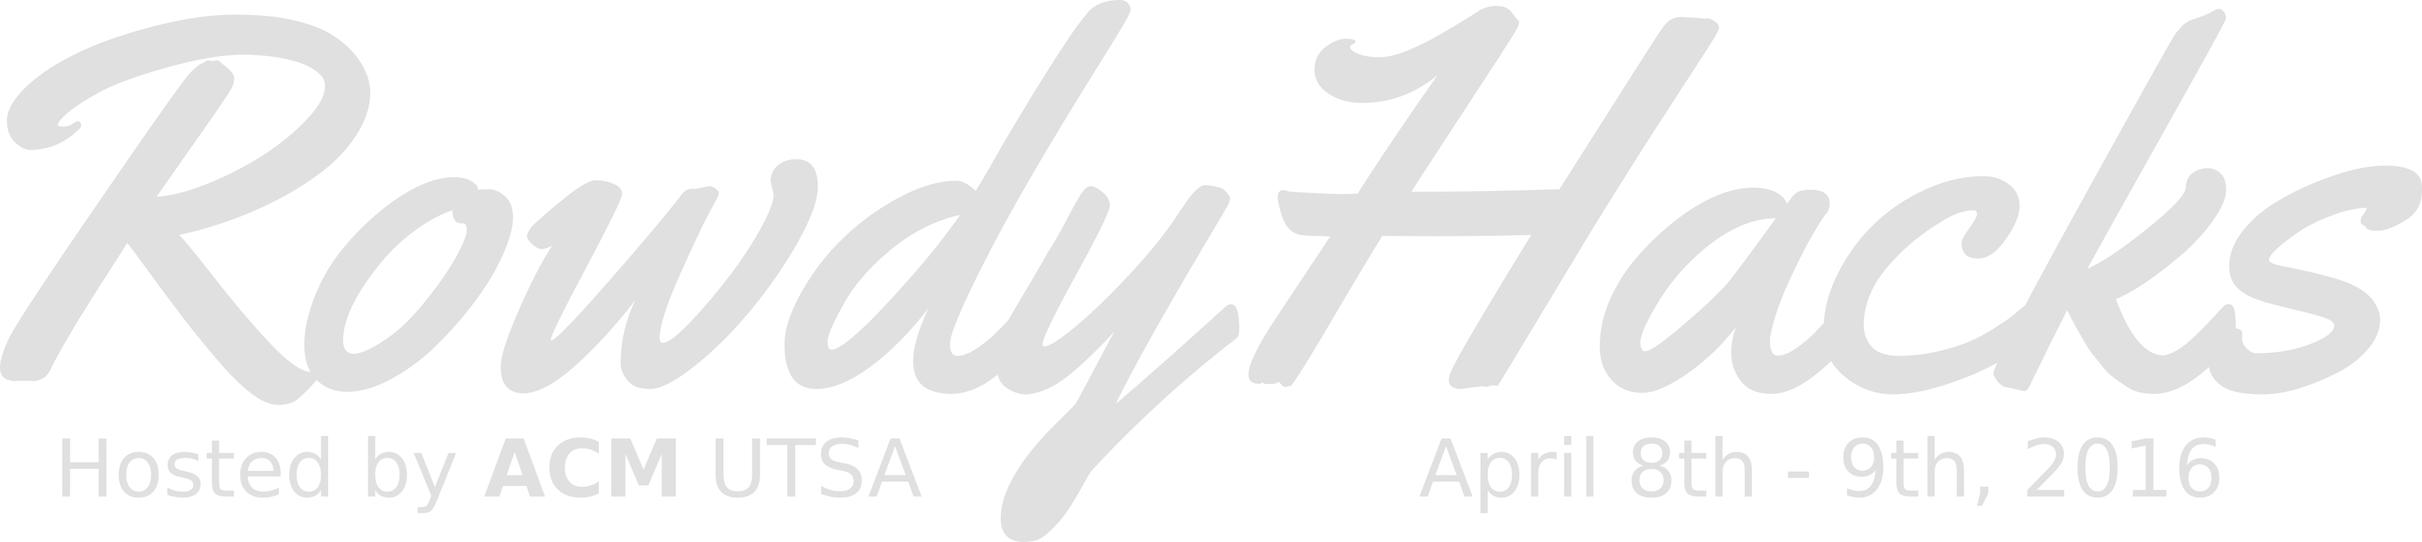
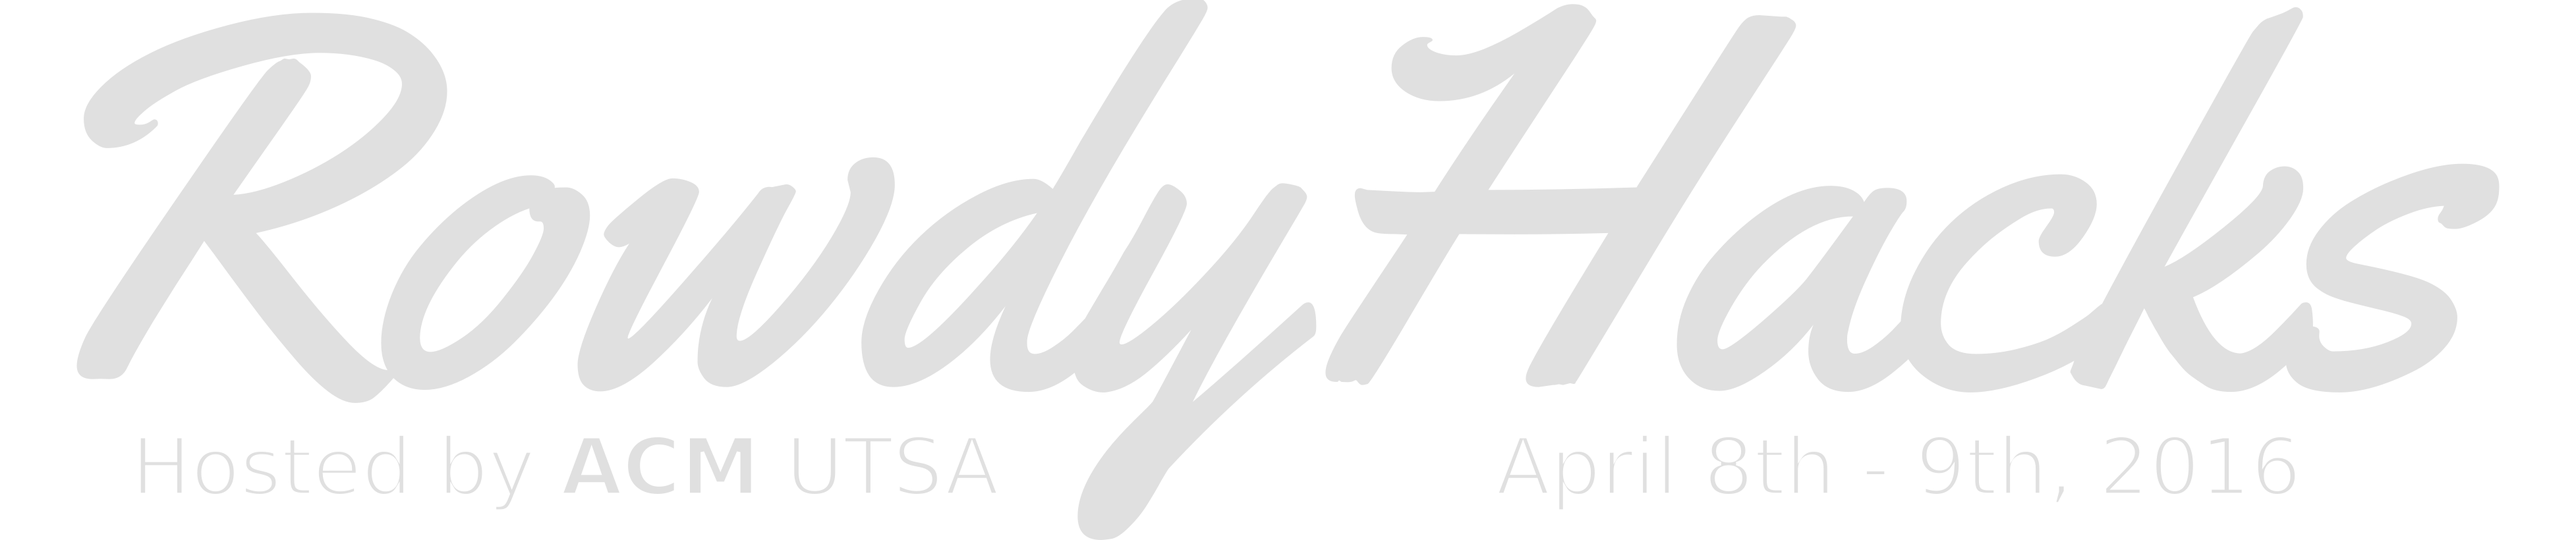
Removed unnecesary files/code. Added footerssection

diff --git a/index.html b/index.html
@@ -9,7 +9,6 @@
   <meta property="og:title" content="">
 
   <link rel="stylesheet" type="text/css" href="css/bootstrap.css">
-  <link rel="stylesheet" href="fancybox/jquery.fancybox-v=2.1.5.css" type="text/css" media="screen">
   <link rel="stylesheet" href="css/font-awesome.min.css">
   <link rel="stylesheet" type="text/css" href="css/style.css">    
 
@@ -65,10 +64,9 @@
       </div>
       <br><br>
       <div id="home-row-2" class="row">
-         <div class="col-12 col-sm-12" id="volunteer">
-          <a href="rowdyhacks.html" target="_blank"><button type="button" class="btn-xl btn-default" onclick="window.open('rowdyhacks.html', '_blank')">
+         <div class="col-12 col-sm-12">
+          <button type="button" class="btn-xl btn-default" onclick="window.open('rowdyhacks.html', '_blank')">
             <i class="fa fa-chevron-right"></i>Register</button>
-          </a>
          </div>
       </div>
       <br><br>
@@ -258,7 +256,7 @@
             </div><!-- /row -->
             <div class="row subtitle-row">
                 <div class="col-sm-1 hidden-sm">&nbsp;</div>
-                <div class="col-12 col-sm-10 font-light">Prize information coming soon!<br><br><i class="icon icon-gift"></i></div>
+                <div class="col-12 col-sm-12 font-light">Prize information coming soon!<br><br><i class="icon icon-gift"></i></div>
                 <div class="col-sm-1 hidden-sm">&nbsp;</div>
             </div><!-- /row -->
         </div><!-- /container -->
@@ -275,12 +273,11 @@
             </div><!-- /row -->
             <div class="row subtitle-row">
                 <div class="col-sm-1 hidden-sm">&nbsp;</div>
-                <div class="col-12 col-sm-10 font-light"><p>Have Questions?<br>Feel free to e-mail us or send us a message via social media.</p></div>
+                <div class="col-12 col-sm-12 font-light"><p>Have Questions?<br>Feel free to e-mail us or send us a message via social media.</p></div>
                 <div class="col-sm-1 hidden-sm">&nbsp;</div>
             </div><!-- /row -->
             <div id="contact-row-4" class="row">
-                <div class="col-sm-3 hidden-sm">&nbsp;</div>
-                <div class="col-12 col-sm-2 with-hover-text">
+                <div class="col-12 col-sm-4 with-hover-text">
                     <p><a href="mailto:acm.utsa@gmail.com"><i class="icon icon-envelope"></i></a></p>
                      <span class="hover-text font-light ">
                         <div class="contact-text">
@@ -288,7 +285,7 @@
                         </div>
                      </span>
                 </div><!-- /col12 -->
-                <div class="col-12 col-sm-2 with-hover-text">
+                <div class="col-12 col-sm-4 with-hover-text">
                     <p><a target="_blank" href="https://www.facebook.com/acmutsa"><i class="icon icon-facebook"></i></a></p>
                     <span class="hover-text font-light ">
                         <div class="contact-text"> 
@@ -296,7 +293,7 @@
                         </div>
                      </span>
                 </div><!-- /col12 -->
-                <div class="col-12 col-sm-2 with-hover-text">
+                <div class="col-12 col-sm-4 with-hover-text">
                     <p><a target="_blank" href="https://www.twitter.com/acm_utsa"><i class="icon icon-twitter"></i></a></p>
                      <span class="hover-text font-light">
                         <div class="contact-text"> 
@@ -314,10 +311,22 @@
     <div class="slide story" id="slide-7">
         <div class="container">
             <div class="row title-row">
-                <div class="col-12">
+                <div class="col-lg-4 col-md-4 com-sm-4">
+                  <a href="https://www.acm-utsa.org" target="_blank">  
+                    <img class="img-responsive" src="images/acm-logo-rectangle.png"> 
+                  </a>
+                </div>
+                <div class="col-lg-4 col-md-4 col-sm-4">
                   <a data-slide="1" href="#slide-1" class="btn btn-circle page-scroll">
                     <i class="fa fa-level-up animated"></i> 
                   </a>
+                </div>
+                <div class="col-lg-4 col-md-4 col-sm-4 footer">
+                  <ul class="contact font-bold">
+                    <li class="contact font-bold"><a href="rowdyhacks.html" target="_blank">Apply</a></li>
+                    <li class="contact font-bold"><a href="http://static.mlh.io/docs/mlh-code-of-conduct.pdf" target="_blank">Code of Conduct</a></li>
+                    <li class="contact"><a href="https://github.com/UTSA-ACM" target="_blank">ACM Github</a></li>
+                  </ul>
                 </div>
               </div>
             </div><!-- /row -->

diff --git a/css/style.css b/css/style.css
@@ -16,18 +16,12 @@
   font-family: "Titillium Web", Arial, Helvetica, sans-serif;
   font-weight: 600;
 }
-.font-main {
-  text-align: right;  
-  margin-right: 150px;
-}
 .font-light {
   font-family: "Titillium Web", Arial, Helvetica, sans-serif;
   font-weight: 300;
 }
-.font-date {
+#yellowtail {
   font-family: 'Yellowtail', cursive;
-  font-weight: 300;
-  color: #f8b195;
 }
 
 .header {
@@ -75,7 +69,7 @@ body {
   text-align: center;
   color: #6c5b7b;
   font-family: "Titillium Web", Arial, Helvetica, sans-serif;
-  font-weight: 600;
+  font-weight: 500;
   transition: all .5 linear;
 }
 
@@ -94,22 +88,21 @@ body {
 }
 
 @media(min-width:768px) {
-    .navbar-custom {
-        padding: 20px 0;
-        border-bottom: 0;
-        letter-spacing: 1px;
-        -webkit-transition: background .5s ease-in-out,padding .5s ease-in-out;
-        -moz-transition: background .5s ease-in-out,padding .5s ease-in-out;
-        transition: background .5s ease-in-out,padding .5s ease-in-out;
-    }
+  .navbar-custom {
+    padding: 10px 0;
+    border-bottom: 0;
+    letter-spacing: 1px;
+    -webkit-transition: background .5s ease-in-out,padding .5s ease-in-out;
+    -moz-transition: background .5s ease-in-out,padding .5s ease-in-out;
+    transition: background .5s ease-in-out,padding .5s ease-in-out;
+  }
 
-    .navbar-custom.top-nav-collapse {
-        padding: 0;
-        border-bottom: 1px solid rgba(255,255,255,.3);
-        background: #000;
-    }
+  .navbar-custom.top-nav-collapse {
+    padding: 0;
+    border-bottom: 1px solid rgba(255,255,255,.3);
+    background: #000;
+  }
 }
-
 
 :focus {outline:none;}
 ::-moz-focus-inner {border:0;}
@@ -123,25 +116,21 @@ body {
 }
 
 #slide-1 {
-  background-image: url('../images/introbackground.png');
+  background-image: url('../images/test.png');
   font-family: 'Yellowtail', cursive;
   color: #e0e0e0;
   -webkit-background-size: 100%;
   -moz-background-size: 100%;
   -o-background-size: 100%;
-  background-size: 100%;
+  background-size: cover;
   -webkit-background-size: cover;
   -moz-background-size: cover;
   -o-background-size: cover;
   background-size: cover;
   width: 100%;
-  height: auto;
+  height: 100%;
   bottom: 0px;
-  display: block;
-}
-
-#yellowtail {
-  font-family: 'Yellowtail', cursive;
+  display: table;
 }
 
 #slide-1 h1 {
@@ -149,7 +138,7 @@ body {
 }
 
 #home-row-1 {
-  padding-top: 190px;
+  padding-top: 160px;
 }
 
 #home-row-1 h1 {
@@ -174,8 +163,6 @@ body {
 }
 
 @media (max-width: 767px) {
-  
-
   .schedule {
     padding-bottom: 5px;
   }
@@ -231,29 +218,28 @@ body {
 }
 
 .btn-default {
-    border: 1px solid #c06c84;
-    color: #355c7d;
-    background-color: transparent;
+  border: 1px solid #c06c84;
+  color: #355c7d;
+  background-color: #e0e0e0;
 }
 
 .btn-default:hover,
 .btn-default:focus {
-    background-color: #355c7d;
-    border: 1px solid #f67280;
-    opacity: .6;
-    outline: 0;
-    color: #fff;
+  background-color: #355c7d;
+  border: 1px solid #f67280;
+  opacity: .6;
+  outline: 0;
+  color: #fff;
 }
 
 .btn-xl {
-  color: #fff;
+  color: #f67280;
   font-family: 'Courier New', Courier;
   font-weight: 200;
   text-transform: uppercase;
   padding: 5px;
   padding-left: 10px;
   padding-right: 10px;
-
   padding: 18px 28px;
   font-size: 22px;
   line-height: normal;
@@ -457,6 +443,13 @@ i {
   padding-bottom: 0px;
 }
 
+#slide-7 img {
+  margin-top: 15px;
+  padding: 15px 16px;
+  max-height: auto;
+  max-width: 100%;
+}
+
 #slide-7 .btn-circle {
   background-color: #f67280;
   border: 2px solid #c06c84;
@@ -468,12 +461,24 @@ i {
   padding-bottom: 0px;
 }
 
-.footer {
-  font-size: .4em;
+#slide-7 .contact{
+  list-style-type: none;
+  font-size: .75em;
+  text-align: right;
 }
 
-.footer li {
-  list-style-type: none;
+#slide-7 a {
+  color: #355c7d;
+}
+
+#slide-7 a:hover,
+#slide-6 a:focus {
+  color: #f67280;
+  text-decoration: none;
+}
+
+.footer {
+  padding-top: 15px;
 }
 
 .title-row {
@@ -585,4 +590,25 @@ i {
         -moz-transform: scale(1);
         transform: scale(1);
     }
+}
+
+@-moz-document url-prefix() {  
+    img{
+        width: 100%;
+        max-width: 100%;
+    }
+}
+
+@media screen and (-webkit-min-device-pixel-ratio:0) {    
+     img{
+        max-width: 100%;
+    }    
+}
+
+@media (min-width: 1500px) {
+  #home-row-2{
+  }
+  #home-row-1 {
+    margin-top: 150px;
+  }
 }
